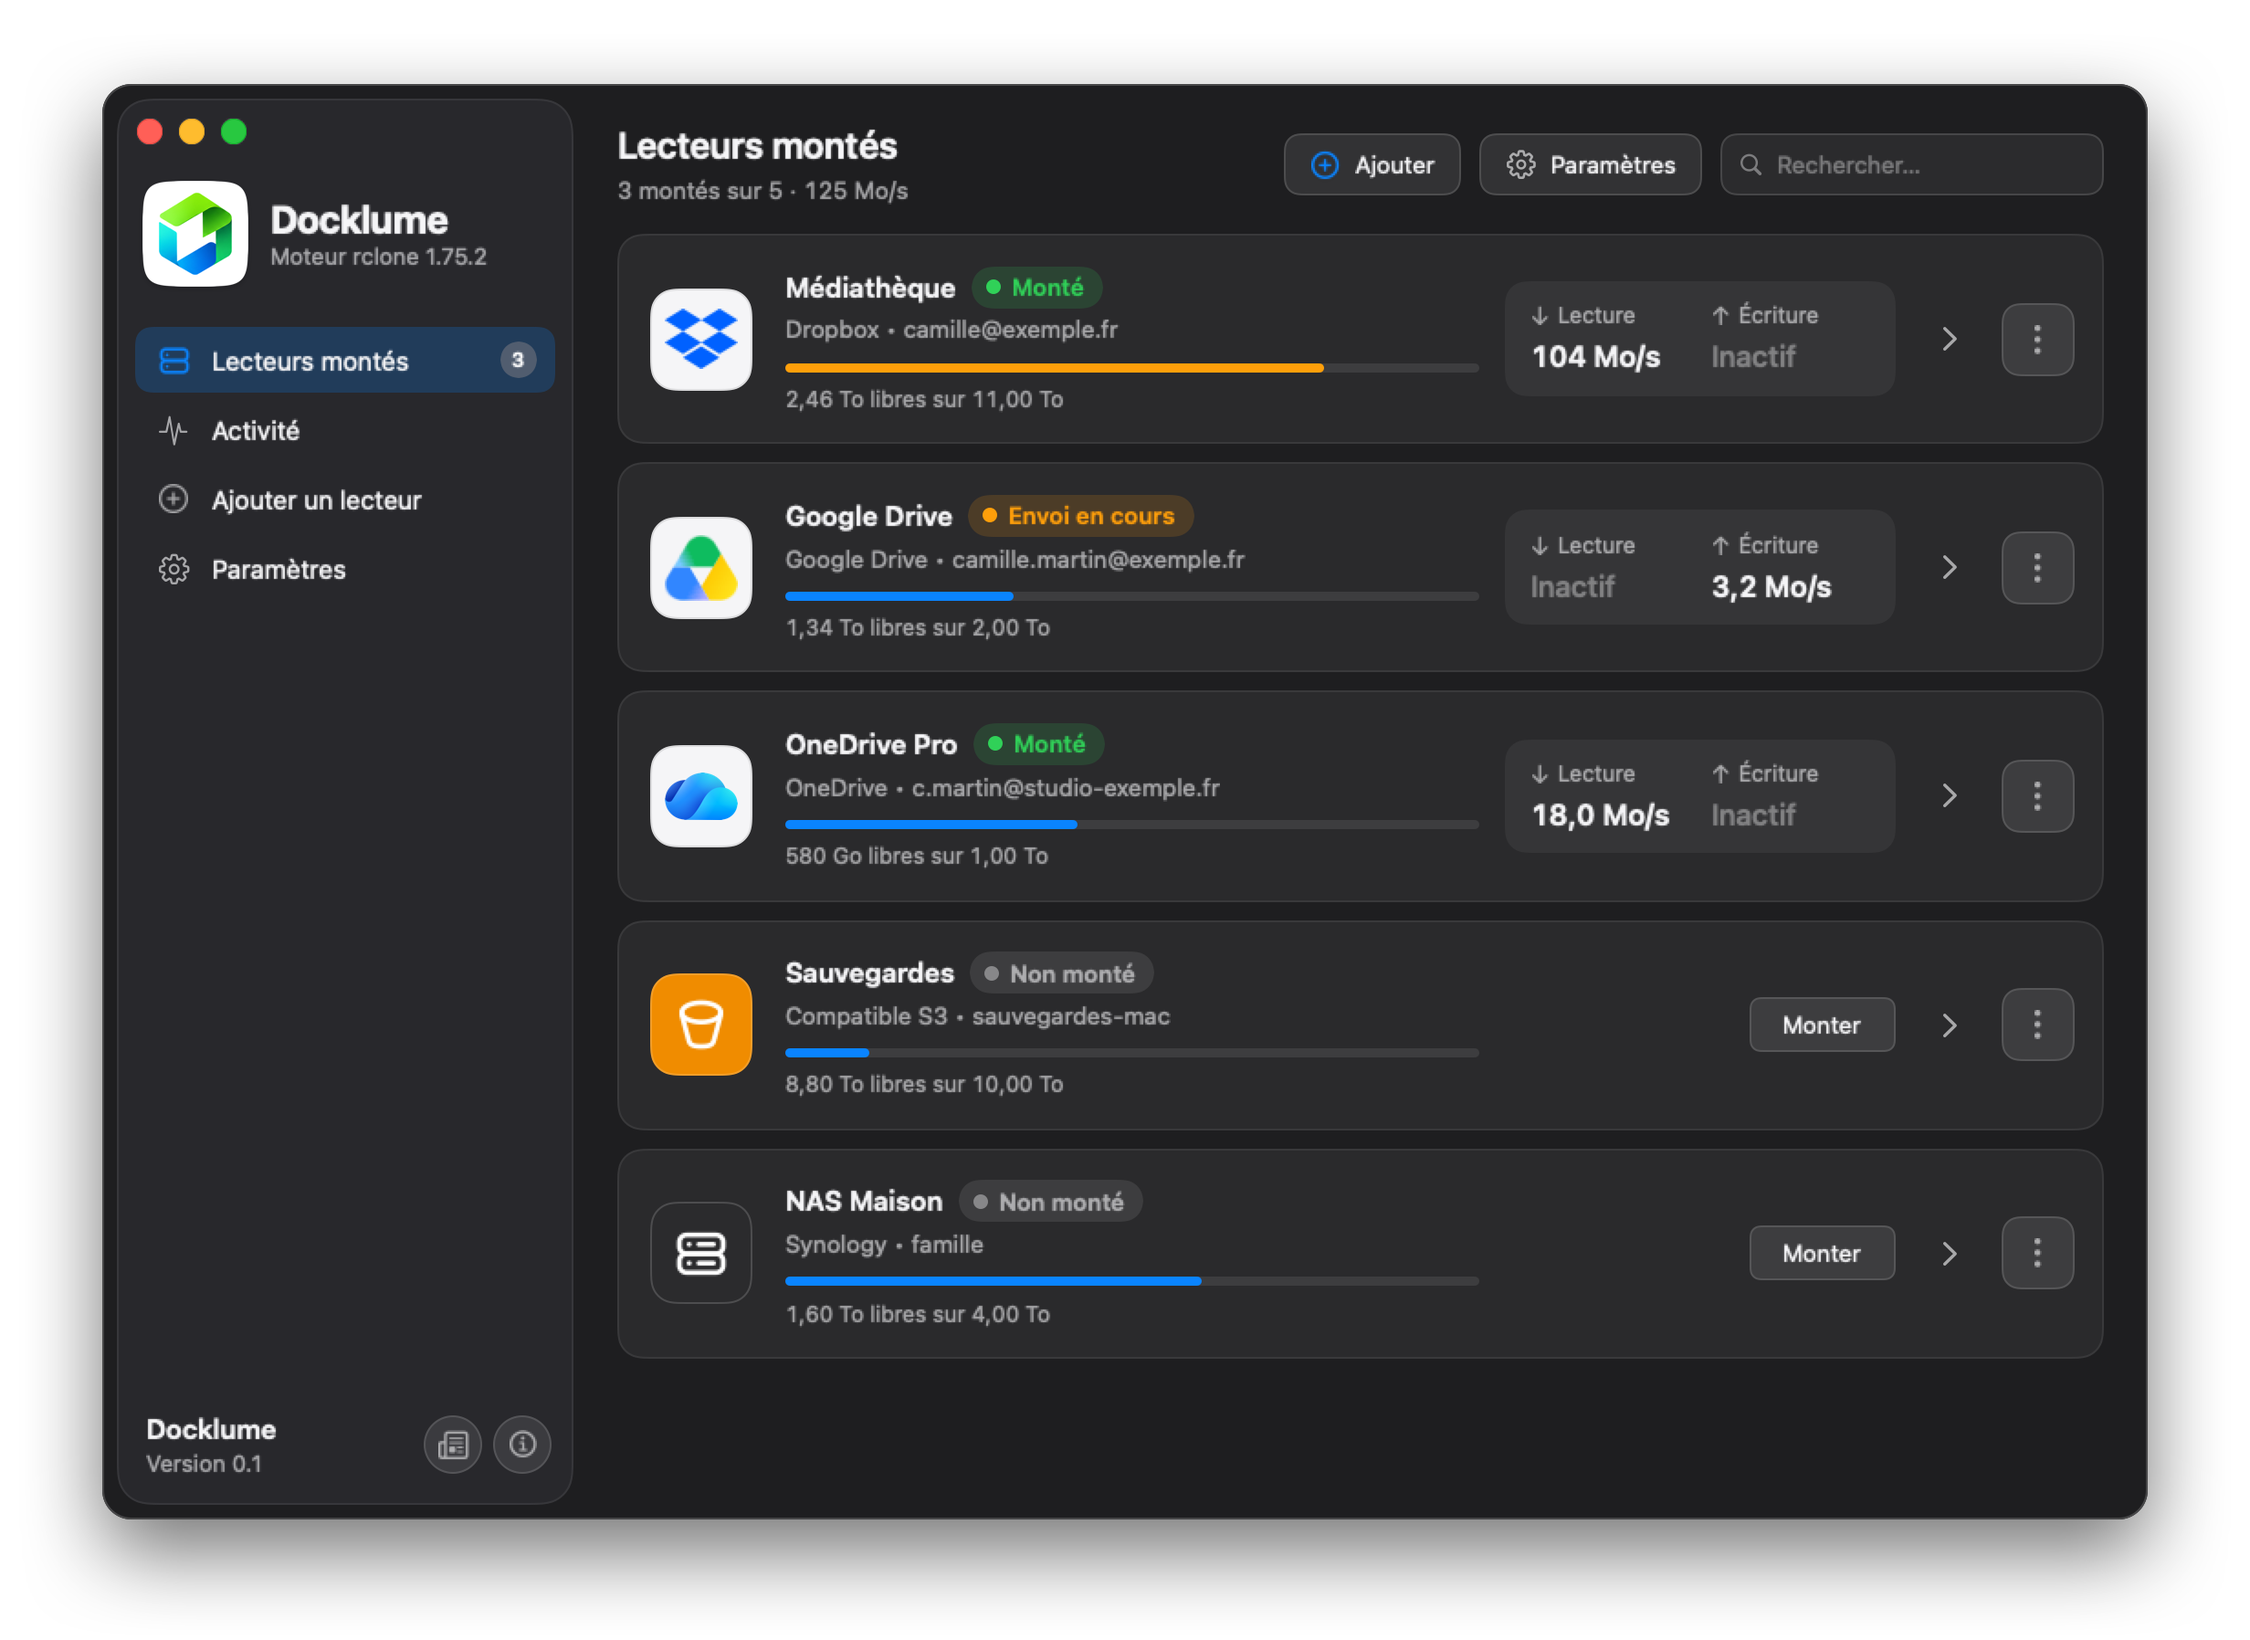
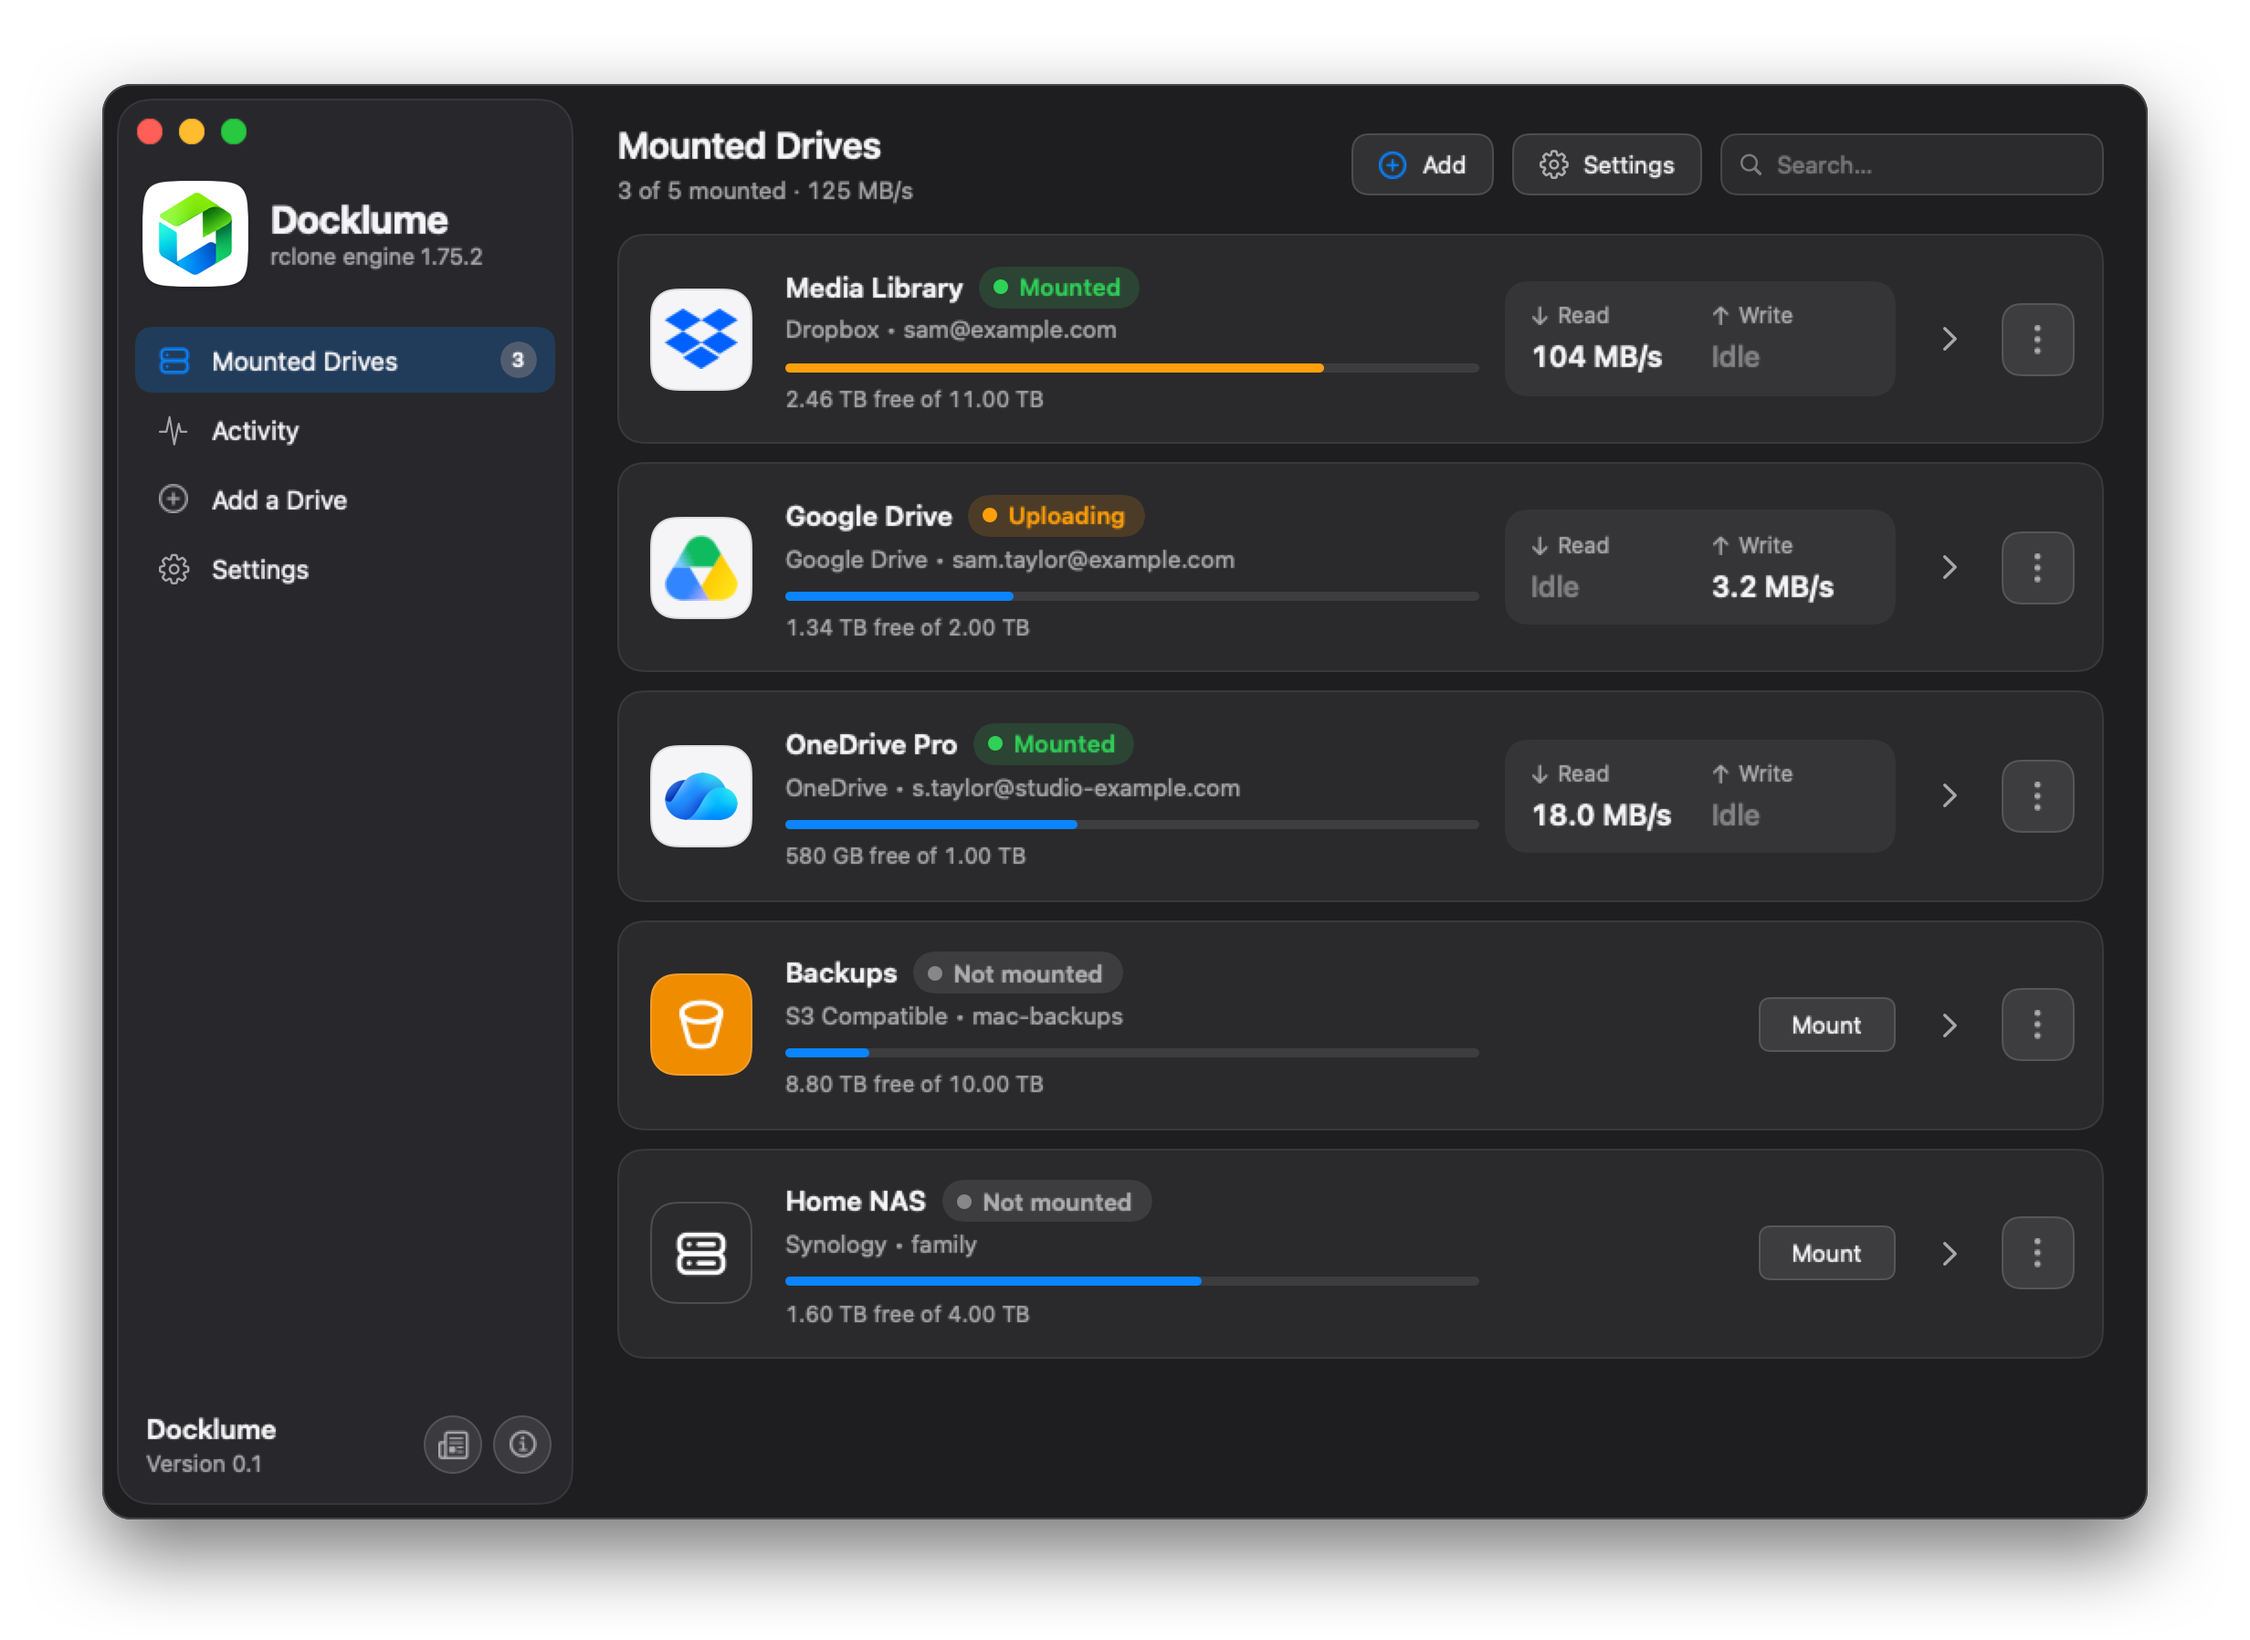
Screenshots in English and French
DOCKLUME_LANG picks the language, with demo accounts to match: English in
docs/images, French in docs/images/fr. DOCKLUME_ONLY renders some screens.

diff --git a/tools/screenshots/main.swift b/tools/screenshots/main.swift
@@ -6,6 +6,10 @@ let out = URL(filePath: CommandLine.arguments[1], directoryHint: .isDirectory)
 NSApplication.shared.setActivationPolicy(.accessory)
 
 let engine = "1.75.2-docklume.9"
+/// English by default, as on GitHub; DOCKLUME_LANG=fr renders the French screens, with French demo accounts, and
+/// DOCKLUME_LANG=system the language of this Mac, with the setting on Système.
+let languageSetting = ProcessInfo.processInfo.environment["DOCKLUME_LANG"] ?? "en"
+let english = (AppLanguage(rawValue: languageSetting) ?? .english).resolved == .english
 /// 2 by default, as on a Retina screen; DOCKLUME_SCALE=1 renders what a 1x screen shows.
 let scale = CGFloat(Double(ProcessInfo.processInfo.environment["DOCKLUME_SCALE"] ?? "") ?? 2)
 
@@ -37,14 +41,16 @@ func ramp(_ peak: Double, start: Int, stop: Int = 60) -> [Double] {
         }
         return drive
     }
+    let french = !english
     let drives = [
-        make("Médiathèque", "dropbox", "camille@exemple.fr", mounted: true, read: 104, used: 8.54, total: 11, profile: .streaming, readOnly: true),
-        make("Google Drive", "gdrive", "camille.martin@exemple.fr", mounted: true, write: 3.2, used: 0.66, total: 2, cache: 1.4),
-        make("OneDrive Pro", "onedrive", "c.martin@studio-exemple.fr", mounted: true, read: 18, used: 0.42, total: 1),
-        make("Sauvegardes", "s3", "sauvegardes-mac", mounted: false, used: 1.2, total: 10, profile: .backup, fuse: false),
-        make("NAS Maison", "synology", "famille", mounted: false, used: 2.4, total: 4, fuse: false)
+        make(french ? "Médiathèque" : "Media Library", "dropbox", french ? "camille@exemple.fr" : "sam@example.com", mounted: true, read: 104,
+             used: 8.54, total: 11, profile: .streaming, readOnly: true),
+        make("Google Drive", "gdrive", french ? "camille.martin@exemple.fr" : "sam.taylor@example.com", mounted: true, write: 3.2, used: 0.66, total: 2, cache: 1.4),
+        make("OneDrive Pro", "onedrive", french ? "c.martin@studio-exemple.fr" : "s.taylor@studio-example.com", mounted: true, read: 18, used: 0.42, total: 1),
+        make(french ? "Sauvegardes" : "Backups", "s3", french ? "sauvegardes-mac" : "mac-backups", mounted: false, used: 1.2, total: 10, profile: .backup, fuse: false),
+        make(french ? "NAS Maison" : "Home NAS", "synology", french ? "famille" : "family", mounted: false, used: 2.4, total: 4, fuse: false)
     ]
-    drives[1].uploads = [Upload(name: "Studio/Devis/Devis 2026-11.pdf", bytes: 640_000, size: 1_000_000, speed: 3.2e6)]
+    drives[1].uploads = [Upload(name: french ? "Studio/Devis/Devis 2026-11.pdf" : "Studio/Quotes/Quote 2026-11.pdf", bytes: 640_000, size: 1_000_000, speed: 3.2e6)]
     return drives
 }
 
@@ -56,6 +62,7 @@ func ramp(_ peak: Double, start: Int, stop: Int = 60) -> [Double] {
     let season = ChristmasTheme.automatic.isOn(Date())
     defaults.set((christmas ? ChristmasTheme.on : season ? .off : .automatic).rawValue, forKey: "christmas")
     defaults.set(Preferences.appVersion, forKey: "notesSeenVersion")
+    defaults.set(languageSetting, forKey: "language")
     // As on a Mac with macFUSE, where the login item is on by default.
     defaults.set(MountMethod.macFUSE.rawValue, forKey: "defaultMethod")
     return Preferences(defaults: defaults, openAtLogin: true)
@@ -144,14 +151,22 @@ struct Light { let rect: CGRect; let fill: CGColor; let edge: CGColor }
     }
 }
 
+/// DOCKLUME_ONLY=settings,notes renders only those screens.
+let only = ProcessInfo.processInfo.environment["DOCKLUME_ONLY"].map { Set($0.split(separator: ",").map(String.init)) }
+
 MainActor.assumeIsolated {
     let size = CGSize(width: 1120, height: 720)
-    window("drives", size: size) { $0.page = .drives }
-    window("detail", size: size) { $0.page = .drive("Médiathèque") }
-    window("activity", size: size) { $0.page = .activity }
-    window("add", size: size) { $0.overlay = .add(provider: "dropbox") }
-    window("settings", size: size) { $0.page = .settings }
-    window("notes", size: size) { $0.overlay = .notes }
-    window("google", size: size) { $0.page = .drive("Google Drive"); $0.overlay = .googleKey(drive: "Google Drive") }
-    panel()
+    let screens: [(String, (AppState) -> Void)] = [
+        ("drives", { $0.page = .drives }),
+        ("detail", { $0.page = .drive(english ? "Media Library" : "Médiathèque") }),
+        ("activity", { $0.page = .activity }),
+        ("add", { $0.overlay = .add(provider: "dropbox") }),
+        ("settings", { $0.page = .settings }),
+        ("notes", { $0.overlay = .notes }),
+        ("google", { $0.page = .drive("Google Drive"); $0.overlay = .googleKey(drive: "Google Drive") })
+    ]
+    for (name, setup) in screens where only?.contains(name) ?? true {
+        window(name, size: size, setup: setup)
+    }
+    if only?.contains("panel") ?? true { panel() }
 }
